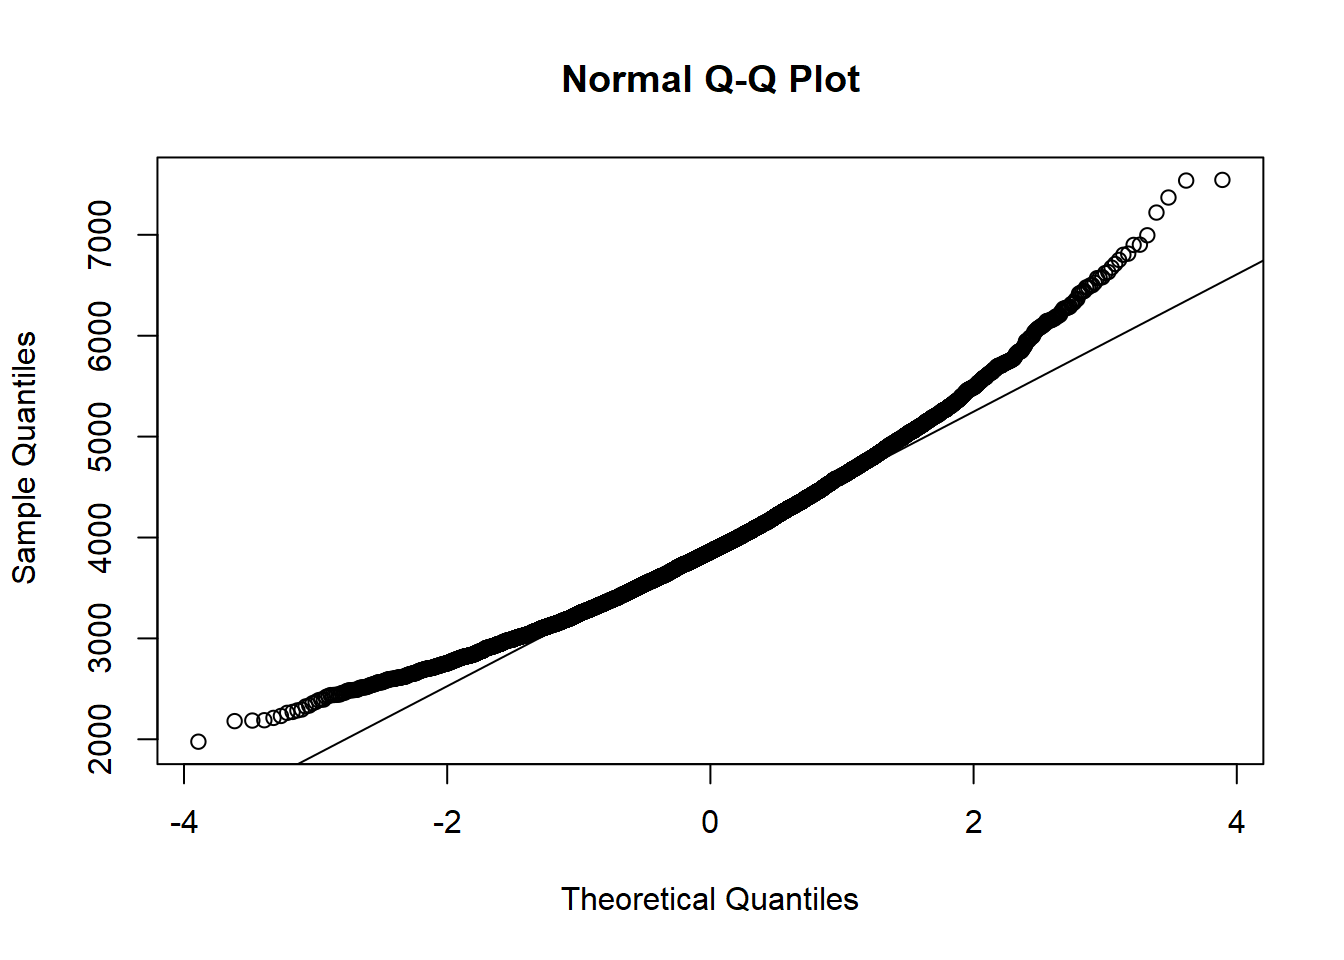
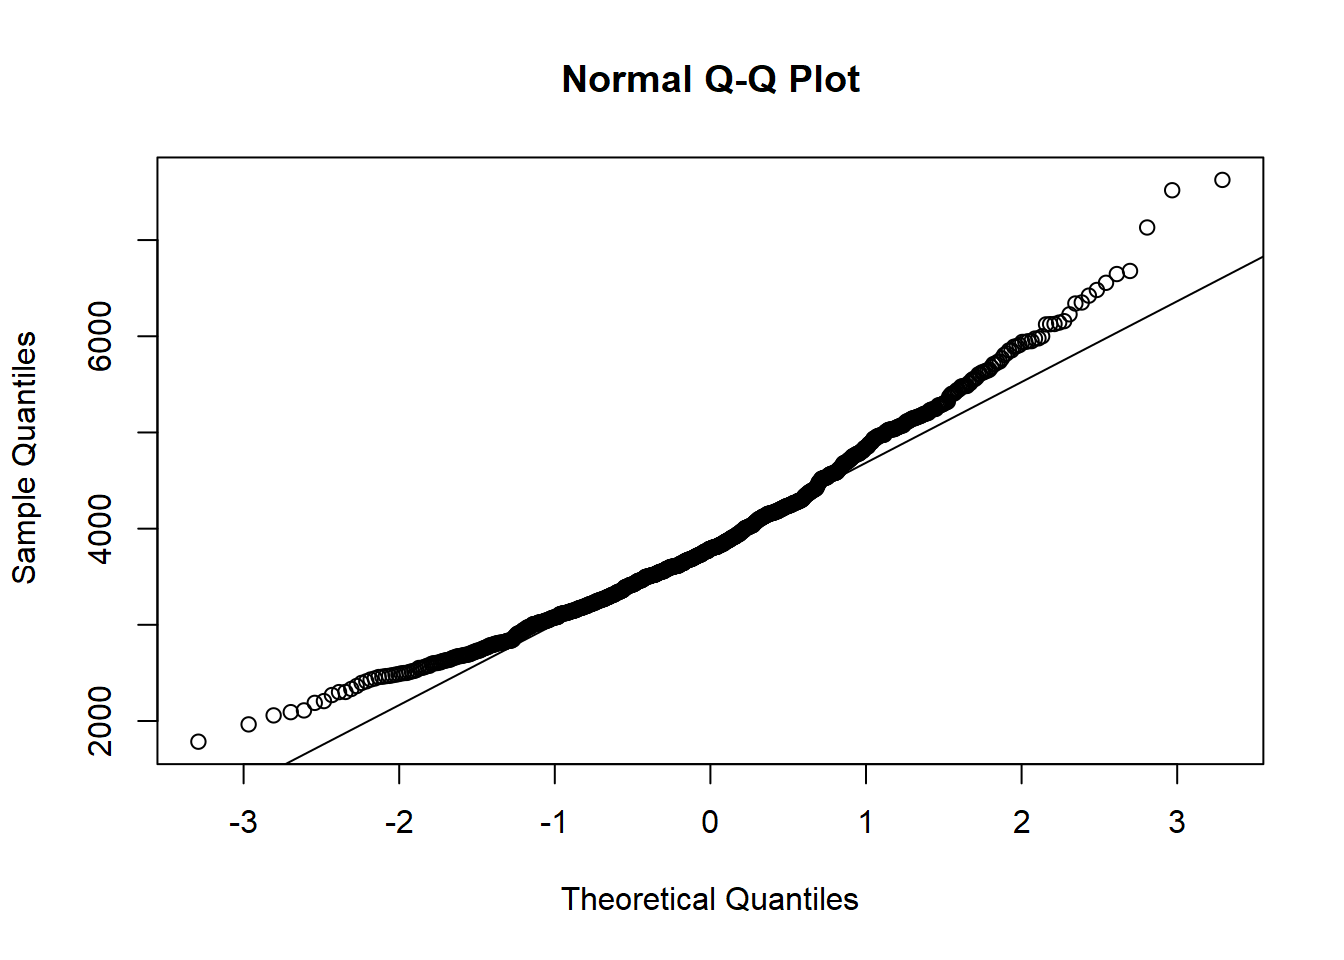
draft post desigualdade

diff --git a/content/post/2020-11-10-desigualdade-de-renda-entre-generos/index.html b/content/post/2020-11-10-desigualdade-de-renda-entre-generos/index.html
@@ -1,7 +1,7 @@
 ---
 title: 'Effect Size e a desigualdade de renda entre gêneros em Vitória'
 author: Alberson Miranda
-date: '2020-11-25'
+date: '2020-11-24'
 slug: [desigualdade-renda-generos]
 categories:
   - estatistica
@@ -12,6 +12,7 @@ tags:
   - Inferencia
 description: Estudo de desigualdade de renda entre gêneros na cidade de Vitória-ES.
 toc: true
+draft: false
 featured: yes
 featureImage: "gender.jpg"
 thumbnail: "images/reticulate.png"
@@ -21,6 +22,7 @@ codeLineNumbers: no
 figurePositionShow: yes
 ---
 
+<script src="index_files/header-attrs/header-attrs.js"></script>
 <link href="index_files/anchor-sections/anchor-sections.css" rel="stylesheet" />
 <script src="index_files/anchor-sections/anchor-sections.js"></script>
 
@@ -228,12 +230,12 @@ qqnorm(data[data$sexo == 2, ]$rem_media,
   main = &quot;Q-Q PLOT: MULHERES&quot;)
 qqline(data[data$sexo == 2, ]$rem_media)</code></pre>
 <p><img src="index_files/figure-html/unnamed-chunk-5-2.png" width="672" /></p>
-<p>Podemos realizar um experimento para verificar a velocidade de convergência para a distribuição normal. Calculando a distribuição de 10 mil médias de 50 homens cada, se ela apresentar distribuição próxima da normal poderemos assumir a normalidade e prosseguir com o trabalho. Caso contrário, precisaremos de tratar a base.</p>
+<p>Podemos realizar um experimento para verificar a velocidade de convergência para a distribuição normal. Calculando a distribuição de mil médias de 30 homens cada, se ela apresentar distribuição próxima da normal poderemos assumir a normalidade e prosseguir com o trabalho. Caso contrário, precisaremos de tratar a base.</p>
 <pre class="r"><code># garantir reprodutibilidade
 set.seed(1)
 
 # quantidade de amostras
-n = 10000
+n = 1000
 
 # médias
 medias = rep(NA, n)
@@ -242,7 +244,7 @@ medias = rep(NA, n)
 for (i in 1:n) {
   medias[i] = mean(
     sample(data[data$sexo == 1, ]$rem_media,
-      size = 50, replace = TRUE
+      size = 30, replace = TRUE
     )
   )
 }
@@ -329,7 +331,112 @@ interpret_d(0.26, &quot;sawilowsky2009&quot;)</code></pre>
 </div>
 <div id="diferenças-entre-profissões" class="section level1">
 <h1>DIFERENÇAS ENTRE PROFISSÕES</h1>
-<p>Podemos estender nossa análise verificando em quais profissões há maior e menor divergência na remuneração entre</p>
+<p>Podemos estender nossa análise verificando em quais profissões há maior e menor divergência na remuneração.</p>
+<pre class="r"><code># criando dataframe de diferenças na remuneração
+# profissões selecionadas
+diferencas = data %&gt;%
+  mutate(profissao = case_when(
+    str_detect(profissao, &quot;Advogado&quot;) ~ &quot;Advogados&quot;,
+    str_detect(profissao, &quot;Engenheiro&quot;) ~ &quot;Engenheiros&quot;,
+    str_detect(profissao, &quot;Médico&quot;) ~ &quot;Médicos&quot;,
+    str_detect(profissao, &quot;Gerente&quot;) ~ &quot;Gerentes&quot;,
+    str_detect(profissao, &quot;Dirigentes|Diretor&quot;) ~ &quot;Diretores&quot;,
+    str_detect(profissao, &quot;Economista&quot;) ~ &quot;Economistas&quot;,
+    str_detect(profissao, &quot;Analista&quot;) ~ &quot;Analistas&quot;,
+    str_detect(profissao, &quot;Técnico&quot;) ~ &quot;Técnicos&quot;,
+    str_detect(profissao, &quot;Enfermeiro&quot;) ~ &quot;Enfermeiros&quot;,
+    str_detect(profissao,
+      &quot;(Professor)(.*)(ensino superior)(.*)&quot;) ~ &quot;Prof. Ensino Superior&quot;,
+    TRUE ~ &quot;Outros&quot;
+  )) %&gt;%
+  group_by(sexo, profissao) %&gt;%
+  summarise(
+    renda = mean(rem_media),
+    n = n()
+  ) %&gt;%
+  ungroup() %&gt;%
+    pivot_wider(names_from = sexo, values_from = c(renda, n)) %&gt;%
+    mutate(dif = renda_homem - renda_mulher) %&gt;%
+    arrange(desc(dif))
+
+# visualizando tabela
+diferencas</code></pre>
+<pre><code>## # A tibble: 11 x 6
+##    profissao             renda_homem renda_mulher n_homem n_mulher   dif
+##    &lt;chr&gt;                       &lt;dbl&gt;        &lt;dbl&gt;   &lt;int&gt;    &lt;int&gt; &lt;dbl&gt;
+##  1 Diretores                  13559.        6994.     393      228 6565.
+##  2 Engenheiros                13997.       10446.    1850      409 3550.
+##  3 Advogados                   8625.        5658.     244      342 2966.
+##  4 Economistas                 8251.        5576.     168      184 2675.
+##  5 Gerentes                    6599.        4463.    3659     3477 2136.
+##  6 Técnicos                    4790.        2731.   10434    10493 2060.
+##  7 Analistas                   5647.        4039.    2931     1869 1607.
+##  8 Prof. Ensino Superior       7384.        6470.    1248     1062  914.
+##  9 Outros                      3427.        2606.  121362   120682  820.
+## 10 Médicos                     8232.        7704.    1840     1984  528.
+## 11 Enfermeiros                 4166.        4439.     540     2139 -273.</code></pre>
+<p>Dentre as profissões selecionadas, apenas a de enfermagem tem salário média maior para as mulheres. Os homens levam vantagem em todos os demais. Colocando em gráfico:</p>
+<pre class="r"><code># gráfico
+diferenca_media = 3925.18 - 2846.727
+setas = tibble(
+  x1 = c(2.9, 9.6),
+  x2 = c(3.5, 9.2),
+  y1 = c(2000, 6000),
+  y2 = c(1200, 6300)
+)
+
+diferencas %&gt;%
+  ggplot(aes(x = reorder(profissao, desc(profissao)), y = dif)) +
+  geom_hline(yintercept = diferenca_media, color = &quot;grey85&quot;) +
+  geom_segment(
+    aes(y = diferenca_media, yend = dif, xend = profissao),
+    color = &quot;grey85&quot;, size = .7
+  ) +
+  geom_point(aes(size = renda_homem), color = &quot;#F06337&quot;) +
+    scale_y_continuous(labels = scales::number) +
+    scale_size_continuous(labels = scales::number, range = c(1, 10)) +
+    annotate(&quot;text&quot;,
+      x = 2.5, y = 2000, size = 3.5, color = &quot;grey85&quot;,
+      label = &quot;a diferença média é de\nR$ 1.078&quot;
+    ) +
+    annotate(&quot;text&quot;,
+    x = 10.5, y = 5500, size = 3.5, color = &quot;grey85&quot;,
+    label = &quot;posições de executivo\né onde a diferença é maior\ne é também onde estão\nos maiores salários&quot;
+  ) +
+  geom_curve(
+    data = setas, aes(x = x1, y = y1, xend = x2, yend = y2),
+    arrow = arrow(length = unit(0.1, &quot;inch&quot;)),
+    size = 0.3, color = &quot;grey85&quot;, curvature = 0.3
+  ) +
+  coord_flip() +
+  labs(
+    x = &quot;&quot;,
+    y = &quot;&quot;,
+    size = &quot;rem. média\n(homem)&quot;,
+    title = &quot;DESIGUALDADE DE GÊNERO EM VITÓRIA&quot;,
+    subtitle = &quot;As diferenças salarias evidenciam o longo caminha na superação da colocação\nda mulher como profissional de segunda categoria no mercado de trabalho&quot;,
+    caption = &quot;fonte: Rais 2017 | elaboração: Alberson Miranda&quot;
+  ) +
+  theme(
+    panel.grid = element_blank(),
+    plot.background = element_rect(fill = &quot;#002538&quot;),
+    panel.background = element_rect(fill = &quot;#002538&quot;),
+    text = element_text(
+      family = &quot;Century Gothic&quot;,
+      color = &quot;grey85&quot;
+    ),
+    axis.text = element_text(color = &quot;grey85&quot;, size = 10),
+    axis.ticks = element_line(color = &quot;grey85&quot;),
+    plot.title = element_text(size = 36, margin = margin(10, 0, 5, 10)),
+    plot.subtitle = element_text(hjust = 1, margin = margin(0, 0, 30, 0), size = 16),
+    plot.caption = element_text(hjust = 0),
+    plot.title.position = &quot;plot&quot;,
+    panel.border = element_rect(color = &quot;grey85&quot;, fill = NA),
+    legend.background = element_rect(fill = &quot;#002538&quot;),
+    legend.key = element_rect(fill = &quot;#002538&quot;)
+  )</code></pre>
+<p><img src="index_files/figure-html/unnamed-chunk-11-1.png" width="1152" /></p>
+<p>Dentre essas profissões que escolhemos, vamos analisar o tamanho do efeito</p>
 </div>
 <div class="footnotes">
 <hr />
